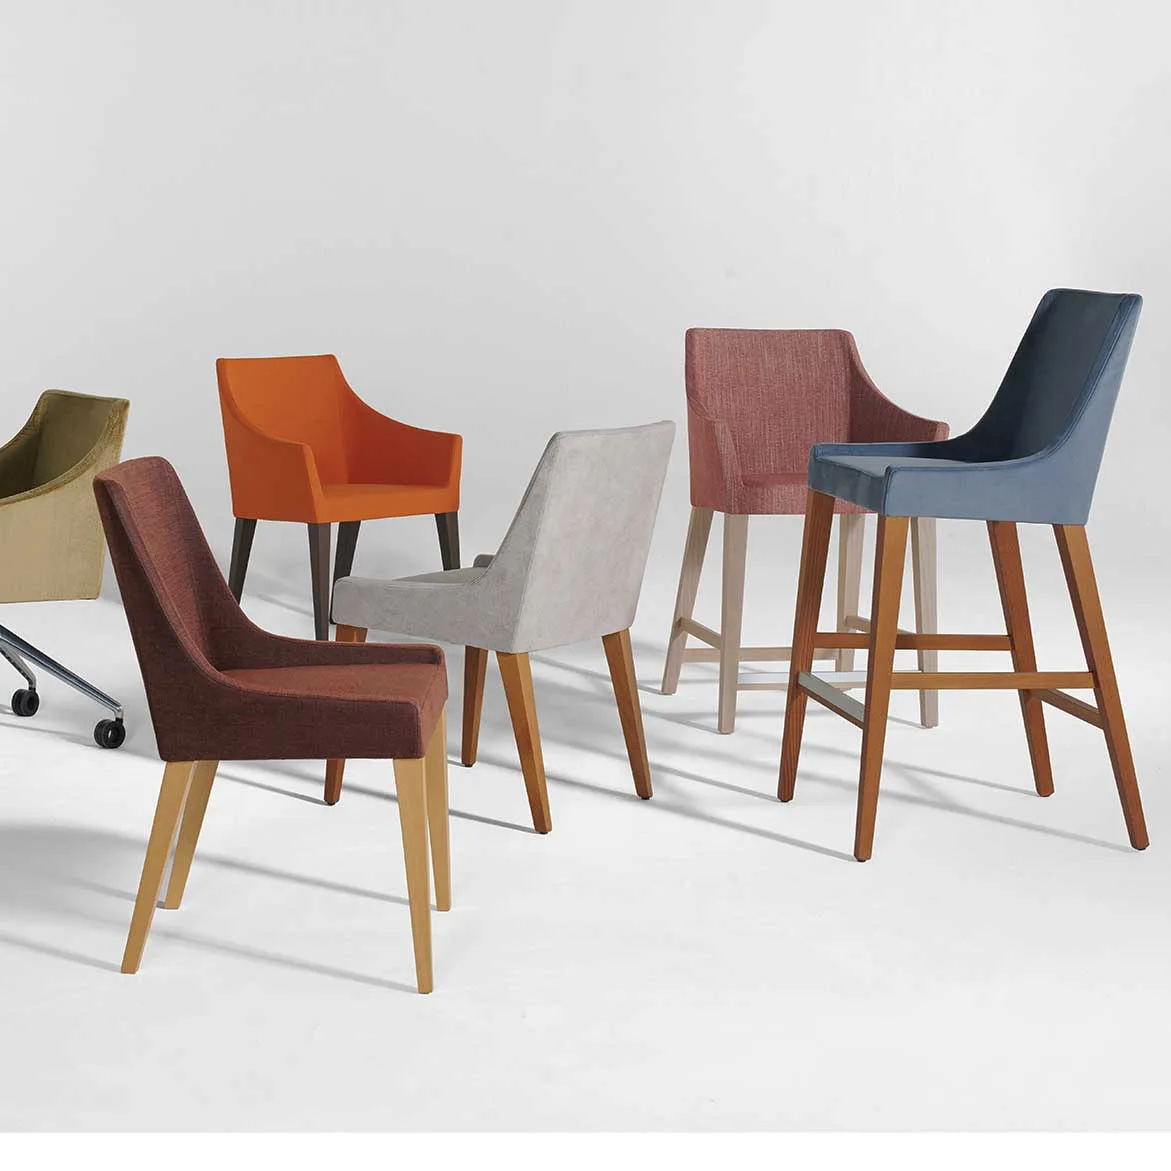
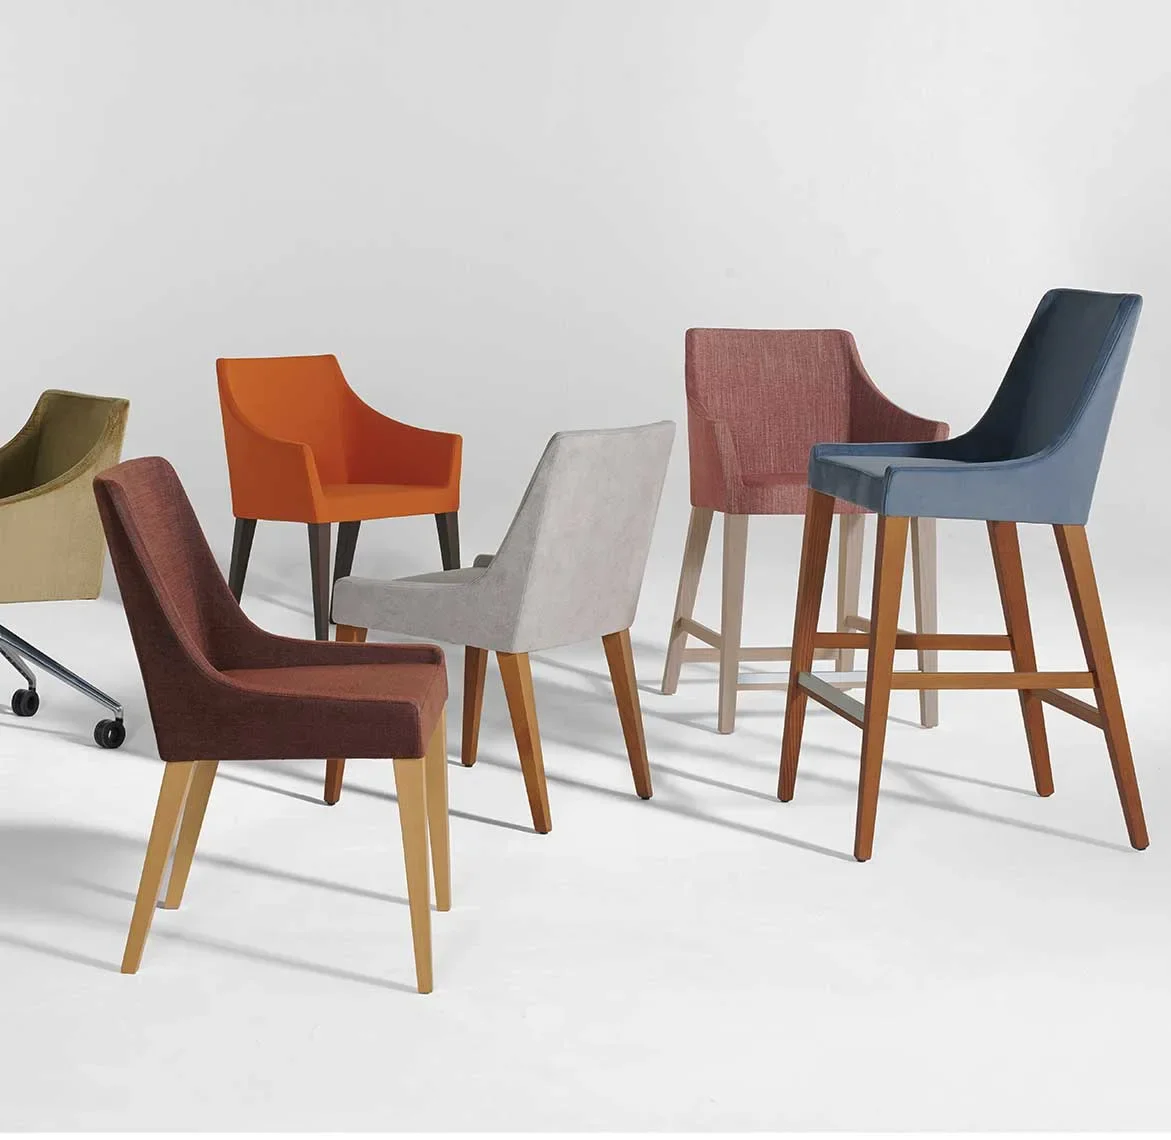
perf: add automated image autocrop script for trimming white margins from installation gallery images

diff --git a/src/pages/InstallationsPage.jsx b/src/pages/InstallationsPage.jsx
@@ -341,9 +341,24 @@ export default function InstallationsPage() {
         </div>
       </section>
 
-      {/* Installation Gallery Header Bar */}
+      {/* Filter Tabs */}
       <section className="container">
-        <div className="installations-filter-bar justify-end">
+        <div className="installations-filter-bar">
+          <div className="installations-filter-pills">
+            <Filter className="size-4 text-[#718f80] mr-1 flex-shrink-0" />
+            {CATEGORY_FILTERS.map((cat) => (
+              <button
+                key={cat}
+                onClick={() => {
+                  setActiveCategory(cat)
+                  setVisibleCount(24)
+                }}
+                className={`installations-pill ${activeCategory === cat ? 'active' : ''}`}
+              >
+                {cat}
+              </button>
+            ))}
+          </div>
           <span className="installations-count-text">
             Showing {filteredItems.length} installation photos
           </span>

diff --git a/scratch/autocrop_installation_images.py b/scratch/autocrop_installation_images.py
@@ -1,0 +1,72 @@
+import os
+import glob
+from PIL import Image, ImageChops
+
+MIGRATED_DIR = '/Users/leninaviles/Projects/Aceray/public/assets/migrated'
+
+def autocrop_image(filepath, threshold=245):
+    try:
+        im = Image.open(filepath)
+        format_type = im.format or 'WEBP'
+        
+        # Convert to RGB to analyze background color difference
+        rgb_im = im.convert('RGB')
+        bg = Image.new('RGB', im.size, (255, 255, 255))
+        diff = ImageChops.difference(rgb_im, bg)
+        
+        # Mask pixels that are near white (all channels > threshold)
+        # We find bounding box of pixels that differ from pure white
+        bbox = diff.getbbox()
+        
+        if not bbox:
+            print(f"Skipping {os.path.basename(filepath)} (completely white or empty)")
+            return
+            
+        w, h = im.size
+        left, top, right, bottom = bbox
+        
+        # Calculate how many pixels were cropped
+        cropped_w = right - left
+        cropped_h = bottom - top
+        
+        # Only crop if there is actual white margin (at least 5px difference on any edge)
+        if left > 5 or top > 5 or (w - right) > 5 or (h - bottom) > 5:
+            print(f"Cropping {os.path.basename(filepath)}: original ({w}x{h}) -> bbox ({cropped_w}x{cropped_h}) [margins: L:{left}, T:{top}, R:{w-right}, B:{h-bottom}]")
+            
+            # Add tiny 2px padding buffer if needed so content isn't hard-cut
+            pad = 2
+            left_p = max(0, left - pad)
+            top_p = max(0, top - pad)
+            right_p = min(w, right + pad)
+            bottom_p = min(h, bottom + pad)
+            
+            cropped = im.crop((left_p, top_p, right_p, bottom_p))
+            
+            # Save cropped image back
+            if filepath.endswith('.webp'):
+                cropped.save(filepath, format='WEBP', quality=85)
+            elif filepath.endswith('.jpg') or filepath.endswith('.jpeg'):
+                cropped.save(filepath, format='JPEG', quality=85)
+            elif filepath.endswith('.png'):
+                cropped.save(filepath, format='PNG')
+            else:
+                cropped.save(filepath)
+            print(f"  Successfully cropped and saved {os.path.basename(filepath)}")
+        else:
+            print(f"No significant white margins in {os.path.basename(filepath)} ({w}x{h})")
+            
+    except Exception as e:
+        print(f"Error processing {os.path.basename(filepath)}: {e}")
+
+def main():
+    extensions = ['*.webp', '*.jpg', '*.jpeg', '*.png']
+    image_files = []
+    for ext in extensions:
+        image_files.extend(glob.glob(os.path.join(MIGRATED_DIR, ext)))
+        
+    print(f"Found {len(image_files)} image files in {MIGRATED_DIR}")
+    for filepath in sorted(image_files):
+        autocrop_image(filepath)
+
+if __name__ == '__main__':
+    main()
